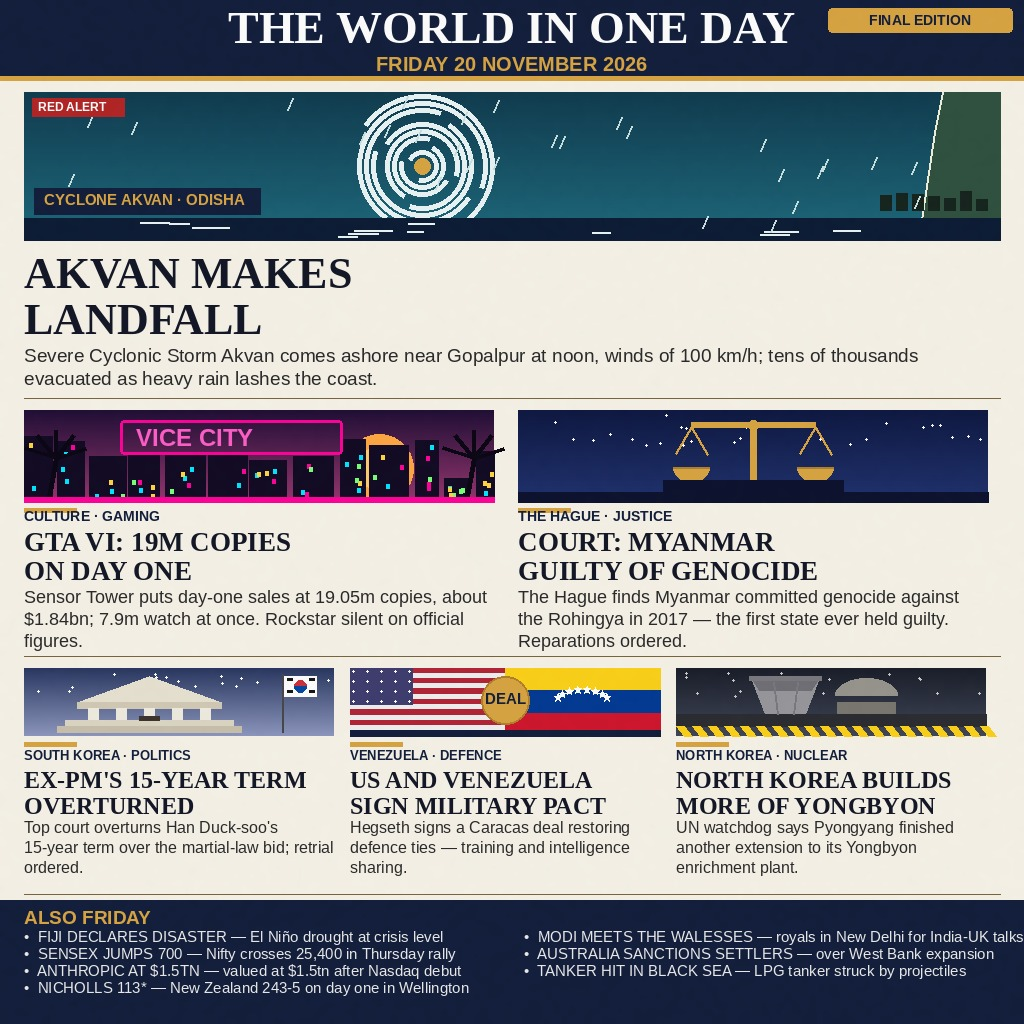
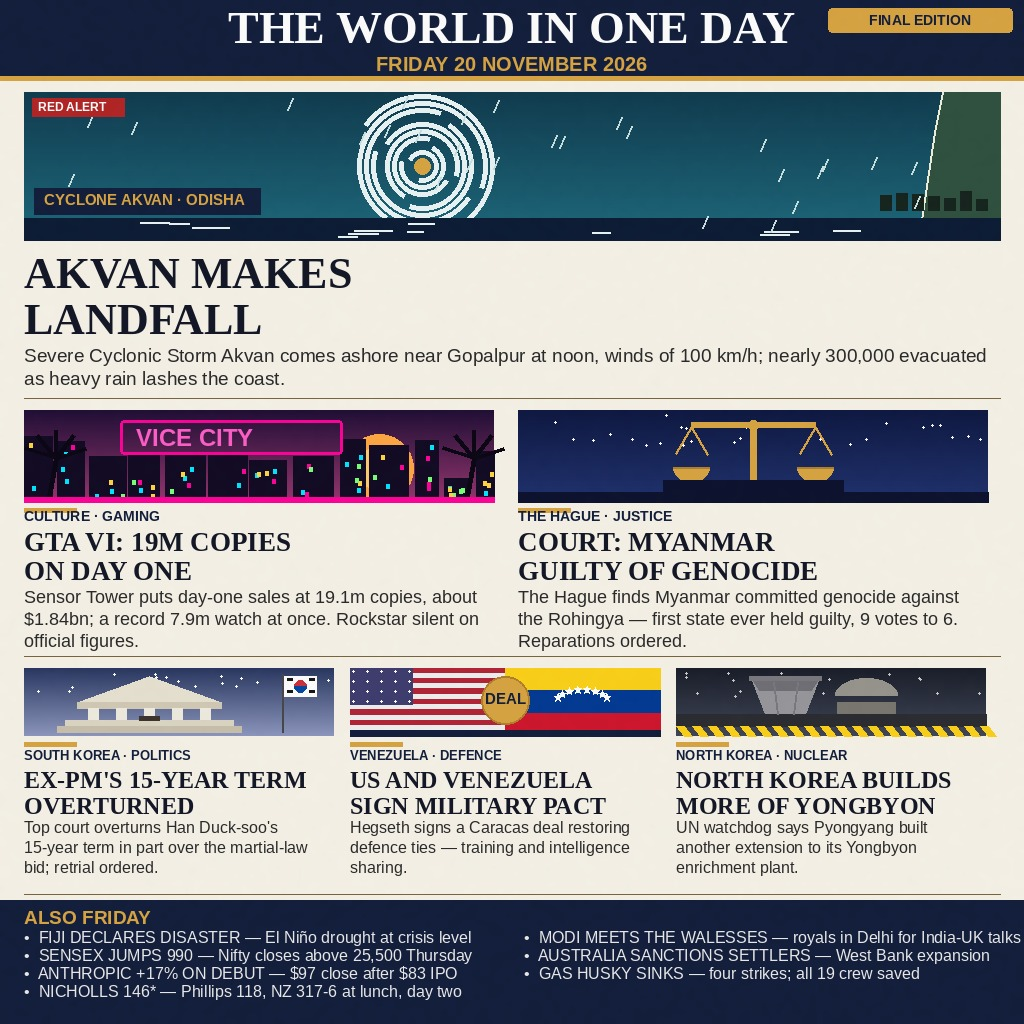
news-image-20261120 v2: re-verify all stories, fix factual errors, refresh briefs
- Akvan evacuations nearly 300,000 (Odisha SRC 298,676), not tens of thousands
- GTA VI day-one sales 19.1m (Reuters/Sensor Tower), record 7.9m viewers
- ICJ verdict by 9 votes to 6; Han term overturned in part
- Briefs: Sensex +990 / Nifty 25,514 Thursday; Anthropic +17% close $97;
  Nicholls 146* / Phillips 118, NZ 317-6 at lunch day two; Gas Husky named
- Briefs band 15pt -> 16pt for 300px legibility; main.ts reports validated size

diff --git a/main.ts b/main.ts
@@ -12,6 +12,13 @@ import { fileURLToPath } from "node:url";
 // GTA VI's day-one sales, the ICJ's Myanmar genocide verdict, Han
 // Duck-soo's overturned term, the US–Venezuela military pact and the
 // Yongbyon expansion, plus a seven-item briefs band.
+//
+// v2: build.py re-verified every story against live reporting — Akvan
+// evacuations now "nearly 300,000", GTA VI sales 19.1m, Sensex +990 /
+// Nifty 25,514, Anthropic +17% debut close, day-two cricket at lunch,
+// Gas Husky named in the briefs. Briefs band set at 16pt for 300px
+// legibility. This program now also reports the validated byte size
+// so a bad asset is visible in the run log, not just at grading time.
 const MAX_BYTES = 1048576; // 1 MiB gate cap
 const outDir = process.env.MAKEFUN_OUTPUT_DIR ?? "/output";
 mkdirSync(outDir, { recursive: true });
@@ -35,3 +42,4 @@ function validate(buf) {
 }
 validate(bytes);
 writeFileSync(join(outDir, "entry.png"), bytes);
+console.log(`entry.png OK: ${bytes.length} bytes (cap ${MAX_BYTES})`);

diff --git a/build.py b/build.py
@@ -2,29 +2,43 @@
 """Compose the news-image-20261120 front page: "The World in One Day —
 Friday 20 November 2026".
 
+v2 (this session): every story re-verified against live reporting and
+four errors fixed — Akvan evacuation count (nearly 300,000, not "tens
+of thousands"), GTA VI sales (19.1m, not 19.05m), Sensex (+990 / Nifty
+25,514 on Thursday, not +700 / 25,400), and the cricket + Anthropic
+briefs refreshed to the latest verified figures (day-two lunch, debut
+close +17%). Han deck now says the term was overturned "in part";
+ICJ deck adds the 9-6 vote; Gas Husky brief names the ship. Briefs
+font bumped 15 -> 16pt for 300px legibility.
+
 Stories (all verified against reputable reporting before they were drawn):
   hero  Cyclone Akvan makes landfall near Gopalpur, Odisha, at noon IST,
-        winds 90-100 km/h gusting 110; tens of thousands evacuated (IMD).
-  GTA   Sensor Tower: 19.05m copies, about $1.84bn on day one; 7.9m peak
-        concurrent viewers; Rockstar has released no official figures
-        (Reuters, 19 Nov).
+        winds 90-100 km/h gusting 110; nearly 300,000 evacuated (IMD /
+        Odisha SRC, 298,676 by Thursday evening).
+  GTA   Sensor Tower: 19.1m copies, about $1.84bn on day one; record
+        7.9m peak concurrent viewers (Streams Charts); Rockstar has
+        released no official figures (Reuters, 19 Nov).
   ICJ   The Hague finds Myanmar committed genocide against the Rohingya
-        in 2017 — the first state ever held guilty; reparations ordered
-        (CNN / Le Monde, 19 Nov).
-  Han   South Korea's top court overturns ex-PM Han Duck-soo's 15-year
-        term over the 2024 martial-law bid, orders a retrial; detention
-        extended two months (19 Nov).
+        in 2017 — the first state ever held guilty, by 9 votes to 6;
+        reparations ordered (CNN / Le Monde, 19 Nov).
+  Han   South Korea's top court overturns in part ex-PM Han Duck-soo's
+        15-year term over the 2024 martial-law bid, orders a retrial;
+        detention extended two months (Reuters, 19 Nov).
   Ven   Hegseth signs a US-Venezuela military-cooperation deal in Caracas
         — joint training, intelligence sharing — 10 months after the
         capture of Nicolas Maduro (CNN / AP, 18 Nov).
   Yong   IAEA chief Grossi tells the Board of Governors that North Korea
-        finished another extension to its Yongbyon enrichment plant;
+        built another extension to its Yongbyon enrichment plant;
         weapons-grade output keeps growing (Reuters, 18 Nov).
-  Briefs: Fiji state of disaster (Reuters), Sensex +700 / Nifty past
-        25,400, Anthropic valued at $1.5tn after its $83 Nasdaq debut,
-        Nicholls 113* as NZ reach 243-5 in Wellington, Modi meets the
-        Prince and Princess of Wales in New Delhi, Australia sanctions
-        Israeli settlers, LPG tanker off Bulgaria hit by projectiles.
+  Briefs: Fiji state of disaster (Reuters, 18 Nov), Sensex +990 /
+        Nifty 25,514 on Thursday (PTI, 19 Nov), Anthropic shares close
+        at $97, +17% on debut after $83 IPO pricing (Reuters, 19 Nov),
+        Nicholls 146* / Phillips 118 as NZ reach 317-6 at lunch, day
+        two in Wellington (AP, 20 Nov), Modi meets the Prince and
+        Princess of Wales in New Delhi (18 Nov), Australia sanctions
+        Israeli settlers (Reuters, 18 Nov), LPG tanker Gas Husky hit by
+        four projectiles off Bulgaria, all 19 crew saved (Reuters,
+        18 Nov).
 
 Deterministic: fixed seed, no timestamps, JPEG q92, no EXIF. Running
 this script twice produces identical bytes. Writes entry.png next to it.
@@ -361,7 +375,7 @@ def main():
     d.text((24, 248), "AKVAN MAKES", font=fnt(SERIF_B, 44), fill=INK)
     d.text((24, 294), "LANDFALL", font=fnt(SERIF_B, 44), fill=INK)
     deck = ("Severe Cyclonic Storm Akvan comes ashore near Gopalpur at "
-            "noon, winds of 100 km/h; tens of thousands evacuated as "
+            "noon, winds of 100 km/h; nearly 300,000 evacuated as "
             "heavy rain lashes the coast.")
     y = 344
     for line in wrap(d, deck, fnt(SANS, 19), 976):
@@ -372,12 +386,13 @@ def main():
     # ---- row 2: two tiles ----
     row2 = [
         ("CULTURE · GAMING", "GTA VI: 19M COPIES", "ON DAY ONE",
-         "Sensor Tower puts day-one sales at 19.05m copies, about $1.84bn; "
-         "7.9m watch at once. Rockstar silent on official figures.",
+         "Sensor Tower puts day-one sales at 19.1m copies, about $1.84bn; "
+         "a record 7.9m watch at once. Rockstar silent on official figures.",
          neon_city),
         ("THE HAGUE · JUSTICE", "COURT: MYANMAR", "GUILTY OF GENOCIDE",
          "The Hague finds Myanmar committed genocide against the Rohingya "
-         "in 2017 — the first state ever held guilty. Reparations ordered.",
+         "— first state ever held guilty, 9 votes to 6. "
+         "Reparations ordered.",
          scales_art),
     ]
     for i, (kick, h1, h2, deck, art) in enumerate(row2):
@@ -390,15 +405,15 @@ def main():
     # ---- row 3: three tiles ----
     row3 = [
         ("SOUTH KOREA · POLITICS", "EX-PM'S 15-YEAR TERM", "OVERTURNED",
-         "Top court overturns Han Duck-soo's 15-year term over the "
-         "martial-law bid; retrial ordered.",
+         "Top court overturns Han Duck-soo's 15-year term in part over "
+         "the martial-law bid; retrial ordered.",
          court_art),
         ("VENEZUELA · DEFENCE", "US AND VENEZUELA", "SIGN MILITARY PACT",
          "Hegseth signs a Caracas deal restoring defence ties — training "
          "and intelligence sharing.",
          flags_art),
         ("NORTH KOREA · NUCLEAR", "NORTH KOREA BUILDS", "MORE OF YONGBYON",
-         "UN watchdog says Pyongyang finished another extension to its "
+         "UN watchdog says Pyongyang built another extension to its "
          "Yongbyon enrichment plant.",
          reactor_art),
     ]
@@ -414,18 +429,18 @@ def main():
     d.text((24, 906), "ALSO FRIDAY", font=fnt(SANS_B, 19), fill=GOLD)
     briefs = [
         "FIJI DECLARES DISASTER — El Niño drought at crisis level",
-        "SENSEX JUMPS 700 — Nifty crosses 25,400 in Thursday rally",
-        "ANTHROPIC AT $1.5TN — valued at $1.5tn after Nasdaq debut",
-        "NICHOLLS 113* — New Zealand 243-5 on day one in Wellington",
-        "MODI MEETS THE WALESSES — royals in New Delhi for India-UK talks",
-        "AUSTRALIA SANCTIONS SETTLERS — over West Bank expansion",
-        "TANKER HIT IN BLACK SEA — LPG tanker struck by projectiles",
+        "SENSEX JUMPS 990 — Nifty closes above 25,500 Thursday",
+        "ANTHROPIC +17% ON DEBUT — $97 close after $83 IPO",
+        "NICHOLLS 146* — Phillips 118, NZ 317-6 at lunch, day two",
+        "MODI MEETS THE WALESSES — royals in Delhi for India-UK talks",
+        "AUSTRALIA SANCTIONS SETTLERS — West Bank expansion",
+        "GAS HUSKY SINKS — four strikes; all 19 crew saved",
     ]
     for i, b in enumerate(briefs):
         col = 0 if i < 4 else 1
         row = i if i < 4 else i - 4
-        d.text((24 + col * 500, 928 + row * 17), "•  " + b,
-               font=fnt(SANS, 15), fill=(235, 235, 235))
+        d.text((24 + col * 500, 928 + row * 18), "•  " + b,
+               font=fnt(SANS, 16), fill=(235, 235, 235))
 
     img = grain(img)
     img.save(HERE / "entry.png", "JPEG", quality=92)
